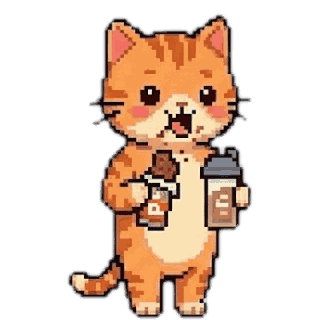
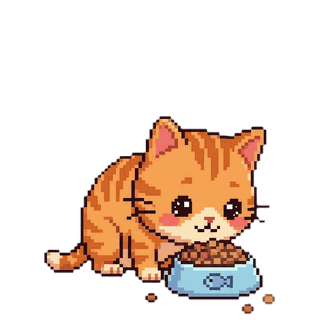
Los ocho dibujos del michi, y celebra al subir de nivel
Alberto ha dibujado siete poses nuevas. Venian de IMG/ con tamanos muy
distintos (203x362, 580x1024, 580x460) y con un halo de borde
semitransparente que sobre la pantalla del aparato se habria visto como
un recuadro. Las normaliza pixel/normalizar_michis.py: limpia el halo,
recorta al dibujo de verdad y compone en 320x320 apoyado abajo.

Lo que de verdad importaba ahi es la ESCALA. Con una sola silueta, si el
gato mide distinto en cada pose parece que se acerca y se aleja al
cambiar de escena. No se escala cada dibujo para llenar el lienzo, sino
para que el GATO mida lo mismo: un gato de pie es alto y estrecho y uno
acurrucado bajo y ancho, asi que cada postura lleva su propia altura de
referencia. Probe a medirlo automaticamente por el ancho de la cabeza y
no vale: en «celebrando» mide los brazos en alto. Ajustado a ojo
mirando el resultado dentro de la pantalla, que es donde se ve.

Subir de nivel era el unico momento bueno de verdad que tenia la app y
pasaba sin que se notara: cambiaba un numero en el marcador. Ahora el
michi lo celebra ocho segundos, con su rotulo. El ultimo nivel visto se
guarda en los datos y no en memoria: si no, cerrar y abrir la app
disparaba la celebracion otra vez.

Celebrar no entra en el ciclo del boton azul a proposito. Es algo que
pasa, no una escena que se elija.

diff --git a/src/App.jsx b/src/App.jsx
@@ -55,7 +55,7 @@ export default function App() {
   /* Lo que apuntas, el michi lo hace: si registras comida se pone a
      comer, si registras entreno se pone a levantar pesas. La animación no
      inventa datos, es la misma información contada como cuidado. */
-  const [accion, setAccion] = useState(null);   // 'comiendo' | 'entrenando'
+  const [accion, setAccion] = useState(null);   // 'comiendo' | 'entrenando' | 'celebrando'
   /* Panel de pruebas: siete toques seguidos en el logo. Es el truco de
      siempre para dejar una puerta de servicio sin ensuciar la pantalla.
      La cuenta se olvida si pasas más de un segundo y medio sin tocar,
@@ -93,6 +93,23 @@ export default function App() {
   );
 
   /* Registrar en cualquier fecha; `undefined` no pisa lo que ya había. */
+  /* Subir de nivel es el único momento bueno de verdad que tenía la app
+     y pasaba sin que se notara: cambiaba un número en el marcador. Ahora
+     el michi lo celebra. Se recuerda el último nivel visto en el propio
+     `datos`, no en un ref: si se guardase solo en memoria, cerrar la app
+     y volver a abrirla dispararía la celebración otra vez. */
+  useEffect(() => {
+    if (!listo || !estado) return;
+    const visto = datos.nivelVisto ?? estado.nivel.nivel;
+    if (estado.nivel.nivel > visto) {
+      setAccion('celebrando');
+      setTimeout(() => setAccion((a) => (a === 'celebrando' ? null : a)), 8000);
+    }
+    if (estado.nivel.nivel !== visto) {
+      setDatos((d) => ({ ...d, nivelVisto: estado.nivel.nivel }));
+    }
+  }, [listo, estado?.nivel?.nivel]);
+
   const registrarCarino = () =>
     setDatos((d) => ({ ...d, carino: podarCarino([...(d.carino ?? []), Date.now()]) }));
 

diff --git a/src/mascota/escenas.js b/src/mascota/escenas.js
@@ -32,6 +32,10 @@ export function siguiente(id) {
    último que apuntaste hoy. Sin datos se queda en casa, que es lo
    honesto — no está paseando si no has andado. */
 export function escenaAutomatica(entradaHoy = {}, accion = null) {
+  /* Celebrar no es una escena con escenario propio: es el michi en casa
+     dando saltos. Por eso va aquí y no en la lista de arriba: el botón
+     azul no debe poder ciclar hasta ella. */
+  if (accion === 'celebrando') return { ...porId('casa'), id: 'celebrar', pose: 'celebrando' };
   if (accion === 'entrenando') return porId('entrenar');
   if (accion === 'comiendo') return porId('comer');
   if ((entradaHoy.entrenoMin ?? 0) > 0) return porId('entrenar');

diff --git a/src/datos/almacen.js b/src/datos/almacen.js
@@ -22,6 +22,10 @@ const VACIO = {
     aparato: { estilo: 'pixel', color: 'naranja' },  // la carcasa del michi
   },
   pacto: null,
+  /* El ultimo nivel que el usuario ha visto. Sirve para celebrar una
+     sola vez al subir: si no se guardara, cerrar y abrir la app volveria
+     a disparar la celebracion. */
+  nivelVisto: null,
   entradas: {},         // { 'AAAA-MM-DD': { pasos, entrenoMin, comidaKcal, ... } }
   carino: [],           // marcas de tiempo de los mimos, para la felicidad
 };

diff --git a/src/pantallas/Inicio.jsx b/src/pantallas/Inicio.jsx
@@ -30,6 +30,7 @@ const POSES = [
   { id: 'entrenando', et: 'entrena' }, { id: 'durmiendo', et: 'duerme' },
   { id: 'andando', et: 'anda' }, { id: 'contento', et: 'contento' },
   { id: 'triste', et: 'triste' }, { id: 'cansado', et: 'cansado' },
+  { id: 'celebrando', et: 'celebra' },
 ];
 
 export default function Inicio({ estado, entradas, pacto, onCarino, accion,

diff --git a/src/i18n/ja.js b/src/i18n/ja.js
@@ -313,6 +313,7 @@ export default {
     entrenar: 'UNDOU CHUU',
     pasear: 'SANPO CHUU',
     dormir: 'NETE IRU',
+    celebrar: 'LEVEL UP!',
   },
 
   objetivos: {

diff --git a/src/i18n/es.js b/src/i18n/es.js
@@ -319,6 +319,7 @@ export default {
     entrenar: 'ENTRENANDO',
     pasear: 'PASEANDO',
     dormir: 'DURMIENDO',
+    celebrar: '¡NIVEL!',
   },
 
   objetivos: {

diff --git a/src/i18n/th.js b/src/i18n/th.js
@@ -313,6 +313,7 @@ export default {
     entrenar: 'OK KAM LANG',
     pasear: 'DEUN LEN',
     dormir: 'NON LAP',
+    celebrar: 'LEVEL UP!',
   },
 
   objetivos: {

diff --git a/src/i18n/en.js b/src/i18n/en.js
@@ -313,6 +313,7 @@ export default {
     entrenar: 'TRAINING',
     pasear: 'WALKING',
     dormir: 'SLEEPING',
+    celebrar: 'LEVEL UP!',
   },
 
   objetivos: {

diff --git a/src/i18n/zh.js b/src/i18n/zh.js
@@ -312,6 +312,7 @@ export default {
     entrenar: 'XUN LIAN',
     pasear: 'SAN BU',
     dormir: 'SHUI JIAO',
+    celebrar: 'LEVEL UP!',
   },
 
   objetivos: {

diff --git a/pixel/normalizar_michis.py b/pixel/normalizar_michis.py
@@ -1,0 +1,103 @@
+# -*- coding: utf-8 -*-
+"""Deja los dibujos del michi listos para la app: 320x320, transparentes
+y apoyados en el borde de abajo.
+
+Los originales vienen de IMG/ con tamanos muy distintos (203x362,
+580x1024, 580x460...) y algunos con un halo de borde semitransparente
+que hay que limpiar, o se ve un recuadro sobre la pantalla del aparato.
+
+Lo que de verdad importa aqui es la ESCALA. Con una sola silueta, si el
+gato mide distinto en cada pose se nota muchisimo al cambiar de escena:
+parece que se acerca y se aleja. Asi que no se escala cada dibujo para
+que llene el lienzo, sino para que EL GATO mida lo mismo en todas.
+
+Un gato de pie es alto y estrecho; uno acurrucado es bajo y ancho. Por
+eso cada postura lleva su propia altura de referencia, en tanto por uno
+del lienzo, sacada de mirar el resultado y no de una formula.
+
+Uso:  python pixel/normalizar_michis.py
+"""
+import os
+from PIL import Image
+
+ORIGEN = "IMG"
+DESTINO = "public/michi"
+LADO = 320
+
+# Alto del gato dentro del lienzo, en tanto por uno. El michi de pie que
+# ya estaba en la app mide 307 de 320, o sea 0.96; el resto se ajusta a
+# ojo para que el animal parezca el mismo tamano en todas las poses.
+ALTO = {
+    "michi_andando":    0.96,
+    "michi_celebrando": 0.96,
+    "michi_contento":   0.96,
+    "michi_triste":     0.96,
+    "michi_cansado":    0.80,   # sentado, apoyado
+    "michi_comiendo":   0.62,   # sentado sobre el cuenco
+    "michi_durmiendo":  0.46,   # acurrucado
+}
+
+# Margen por abajo, en tanto por uno del lienzo. Los de pie se apoyan en
+# el borde; los tumbados van un pelo mas arriba para que no parezca que
+# se salen de la pantalla.
+SUELO = {"michi_durmiendo": 0.04, "michi_comiendo": 0.02}
+
+UMBRAL = 120        # por debajo de esto es halo del exportador, no dibujo
+LIMPIEZA = 24       # alfa por debajo del cual se borra del todo
+
+
+def cajaDelGato(im, umbral=UMBRAL):
+    """La caja del dibujo de verdad, ignorando el halo de los bordes."""
+    a = im.split()[3].point(lambda v: 255 if v >= umbral else 0)
+    return a.getbbox()
+
+
+def limpiar(im):
+    """Los pixeles casi invisibles se van del todo: son el halo."""
+    r, g, b, a = im.split()
+    a = a.point(lambda v: 0 if v < LIMPIEZA else v)
+    return Image.merge("RGBA", (r, g, b, a))
+
+
+def normalizar(nombre, ruta):
+    im = limpiar(Image.open(ruta).convert("RGBA"))
+    caja = cajaDelGato(im)
+    if caja is None:
+        raise SystemExit("  %s: no encuentro dibujo dentro" % nombre)
+    gato = im.crop(caja)
+
+    alto = int(LADO * ALTO.get(nombre, 0.96))
+    escala = alto / gato.height
+    ancho = max(1, round(gato.width * escala))
+    if ancho > LADO:                      # que no se salga de lado
+        escala *= LADO / ancho
+        ancho, alto = LADO, max(1, round(alto * LADO / ancho))
+    gato = gato.resize((ancho, max(1, round(gato.height * escala))), Image.LANCZOS)
+
+    lienzo = Image.new("RGBA", (LADO, LADO), (0, 0, 0, 0))
+    x = (LADO - gato.width) // 2
+    y = LADO - gato.height - round(LADO * SUELO.get(nombre, 0))
+    lienzo.paste(gato, (x, y), gato)
+    return lienzo
+
+
+def main():
+    hechos = 0
+    for nombre in sorted(ALTO):
+        ruta = os.path.join(ORIGEN, nombre + ".png")
+        if not os.path.exists(ruta):
+            print("  falta %s, me lo salto" % ruta)
+            continue
+        salida = normalizar(nombre, ruta)
+        destino = os.path.join(DESTINO, nombre + ".png")
+        salida.quantize(colors=255, method=Image.FASTOCTREE).save(destino, optimize=True)
+        caja = salida.split()[3].getbbox()
+        print("  %-18s %6.1f kB   gato %dx%d, apoyado en y=%d"
+              % (nombre, os.path.getsize(destino) / 1024,
+                 caja[2] - caja[0], caja[3] - caja[1], caja[3]))
+        hechos += 1
+    print("\n%d dibujos listos en %s/" % (hechos, DESTINO))
+
+
+if __name__ == "__main__":
+    main()
